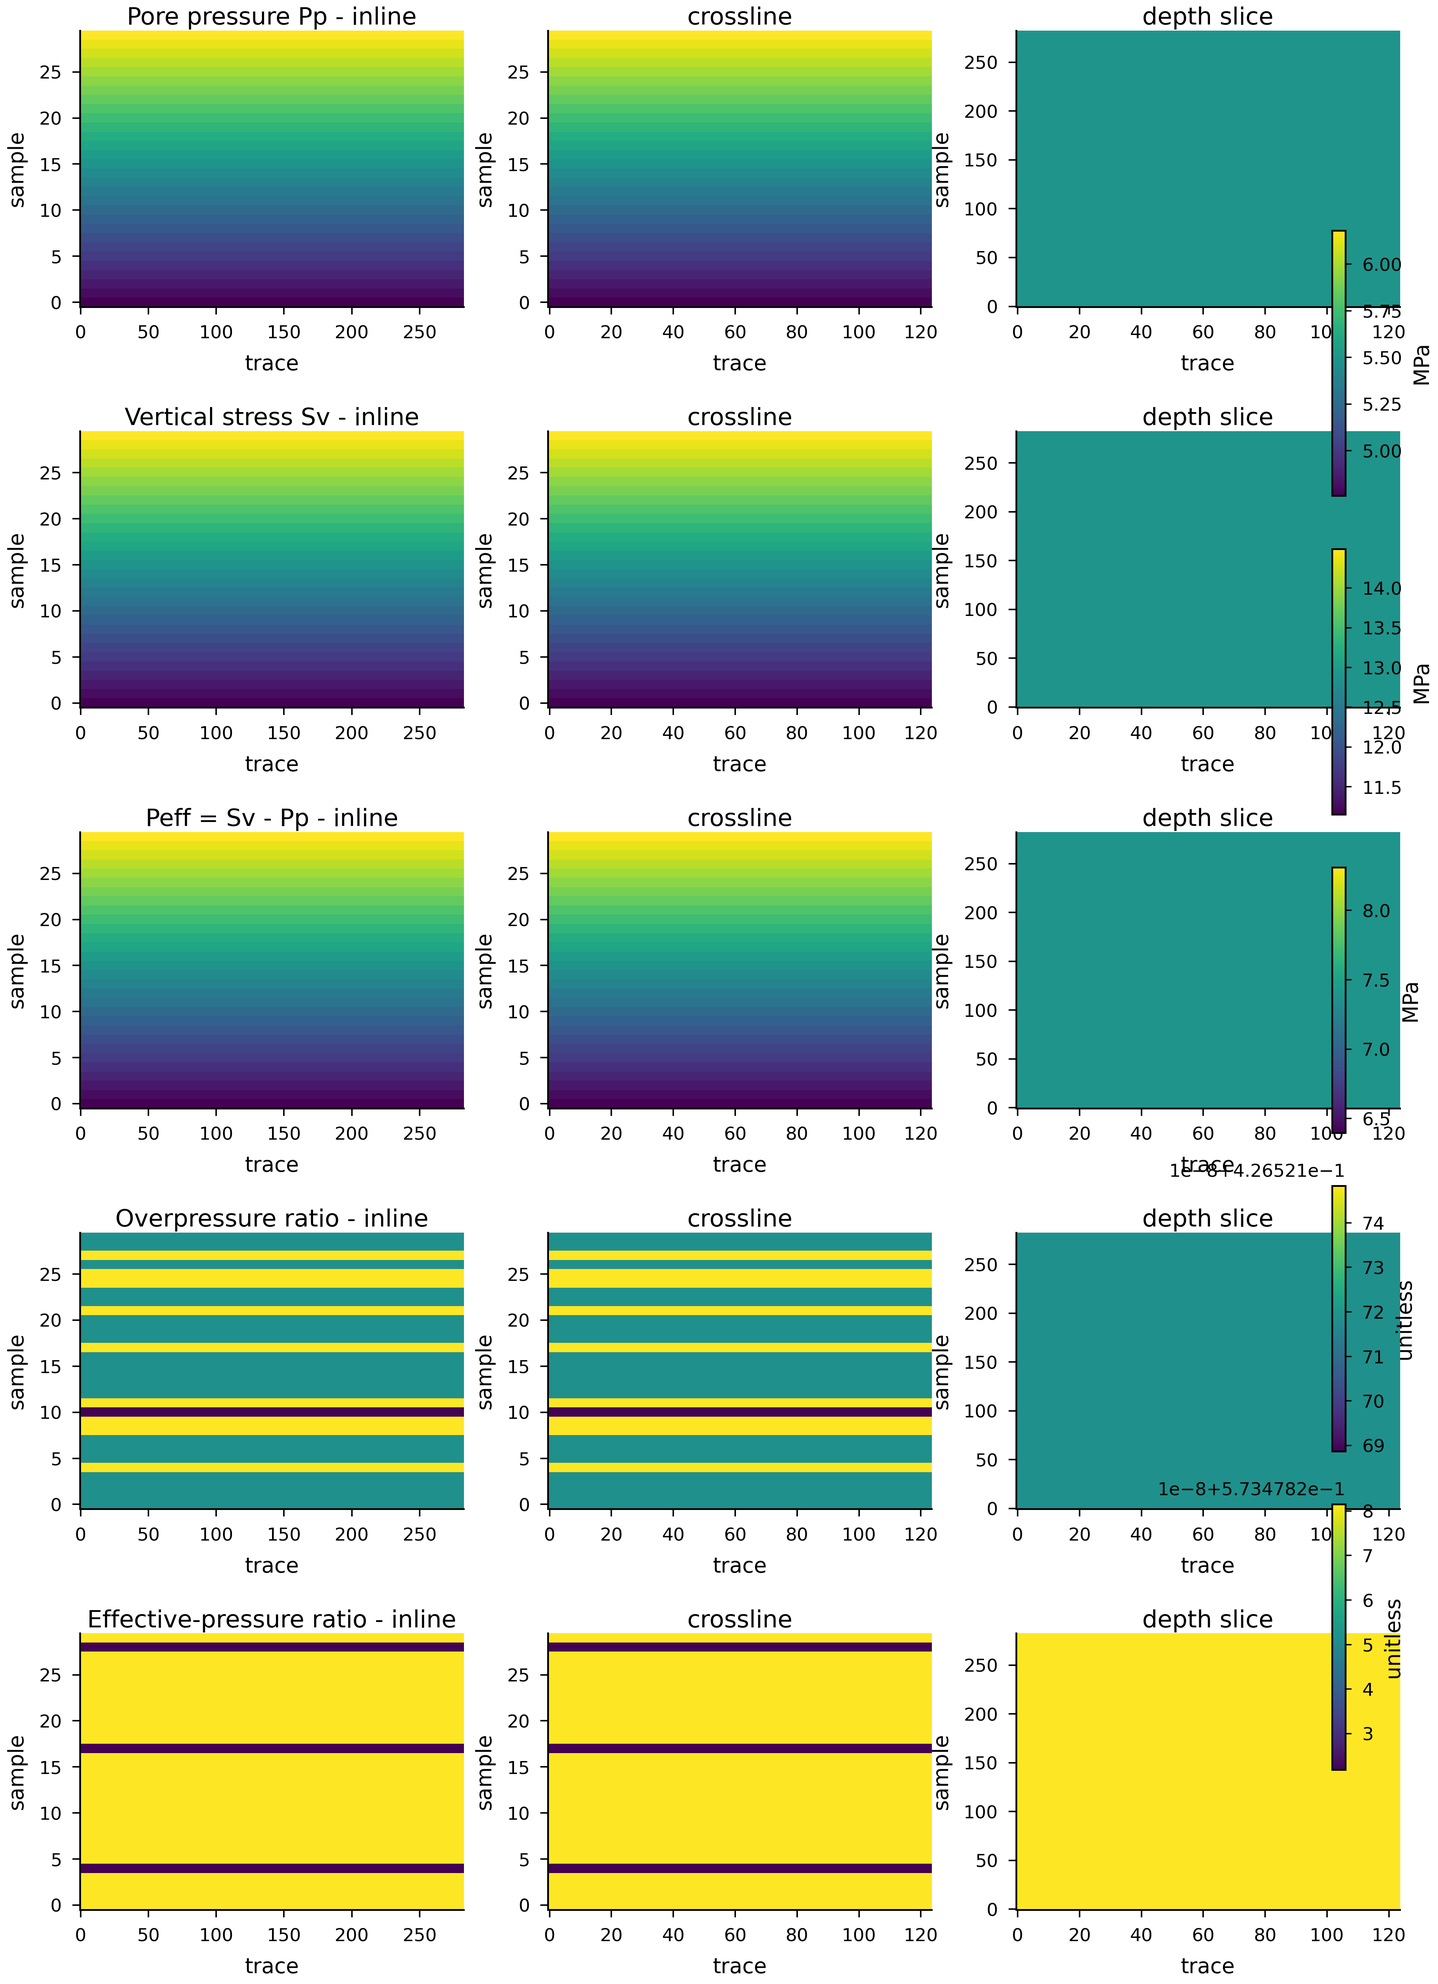
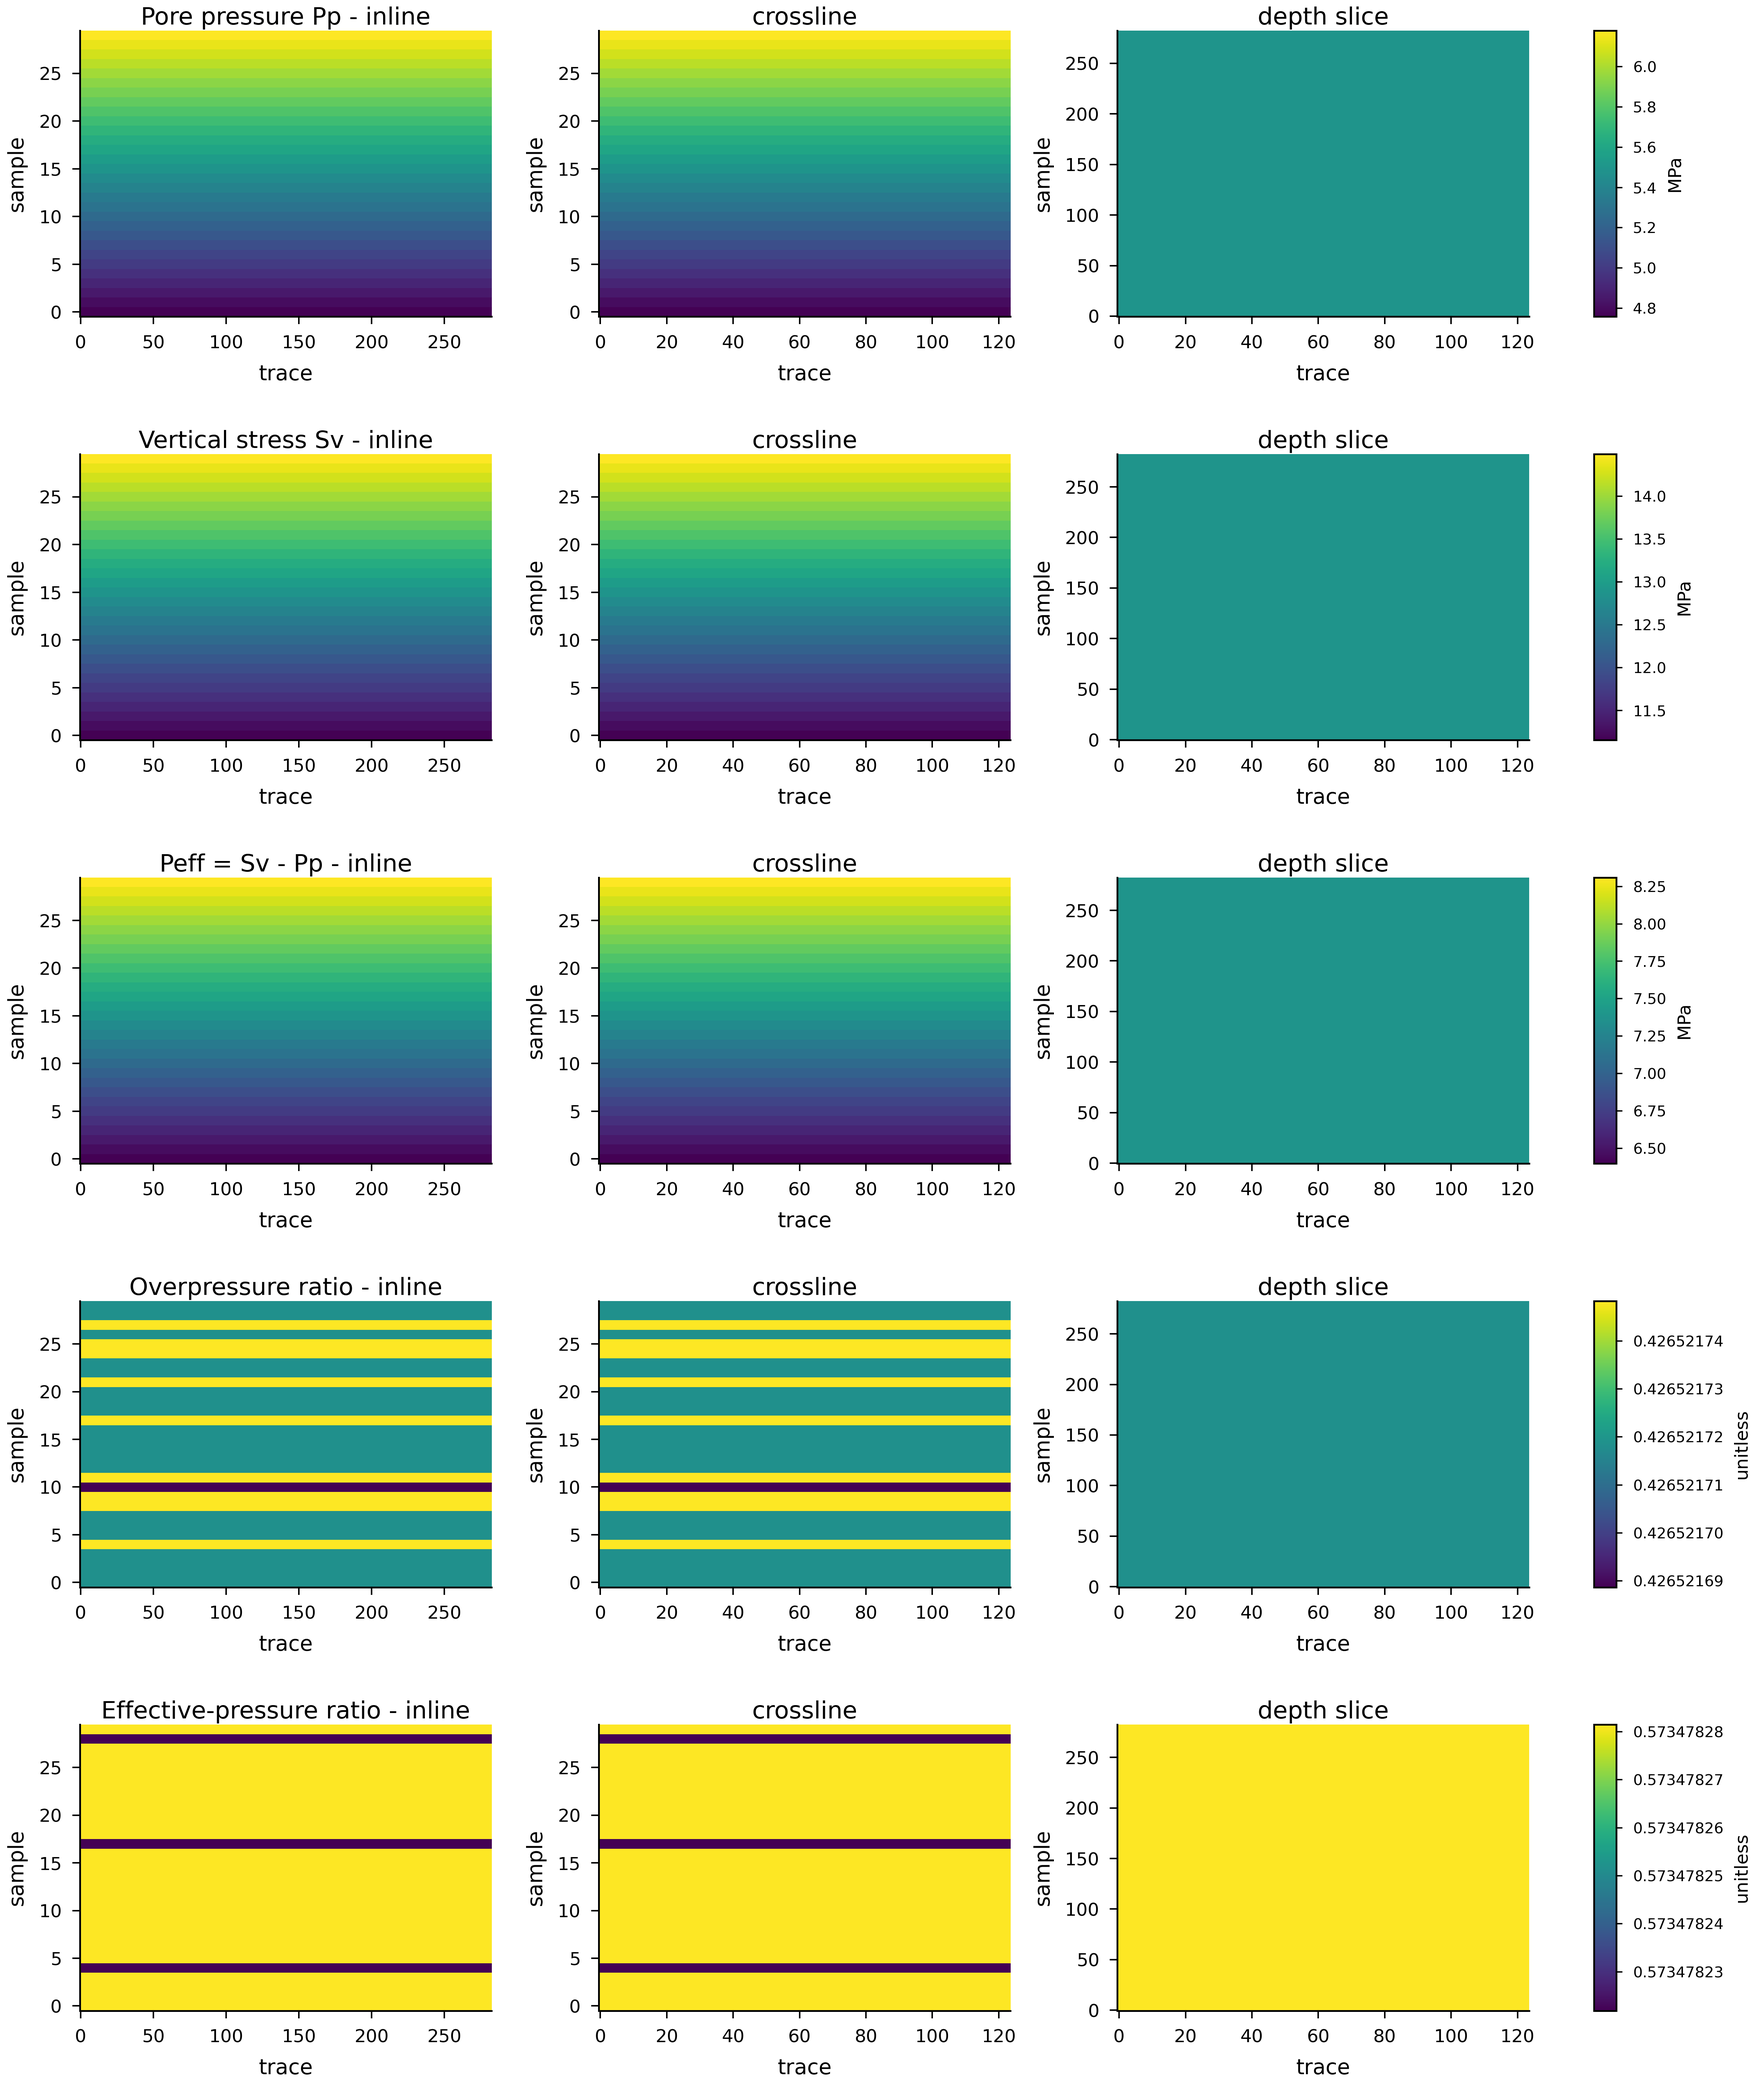
Fix orthoslice figure colorbar layout

diff --git a/research_pipelines/stress_conditioned_softdata/visualization.py b/research_pipelines/stress_conditioned_softdata/visualization.py
@@ -96,7 +96,8 @@ def save_volume_orthoslices(
     items = list(volumes.items())[:max_items]
     if not items:
         return
-    fig, axes = plt.subplots(len(items), 3, figsize=(7.1, 1.85 * len(items)), squeeze=False)
+    fig, axes = plt.subplots(len(items), 3, figsize=(8.6, 1.95 * len(items)), squeeze=False)
+    colorbar_rows = []
     for row, (name, volume) in enumerate(items):
         arr = _to_numpy(volume)
         while arr.ndim > 3:
@@ -122,9 +123,15 @@ def save_volume_orthoslices(
             title = f"{_display_name(name)} - {label}" if col == 0 or arr.ndim <= 2 else label
             _format_image_axis(ax, title)
         if last_im is not None:
-            cbar = fig.colorbar(last_im, ax=axes[row, :], fraction=0.018, pad=0.01)
-            _label_colorbar(cbar, name)
-    fig.subplots_adjust(left=0.07, right=0.93, top=0.98, bottom=0.04, wspace=0.22, hspace=0.45)
+            colorbar_rows.append((row, last_im, name))
+    fig.subplots_adjust(left=0.06, right=0.84, top=0.98, bottom=0.04, wspace=0.26, hspace=0.48)
+    for row, image, name in colorbar_rows:
+        row_boxes = [ax.get_position() for ax in axes[row, :]]
+        y0 = min(box.y0 for box in row_boxes)
+        y1 = max(box.y1 for box in row_boxes)
+        cax = fig.add_axes([0.875, y0, 0.012, y1 - y0])
+        cbar = fig.colorbar(image, cax=cax)
+        _label_colorbar(cbar, name)
     output_path = Path(output_path)
     output_path.parent.mkdir(parents=True, exist_ok=True)
     fig.savefig(output_path, dpi=dpi)
@@ -365,9 +372,13 @@ def _add_panel_letter(ax, idx: int) -> None:
 
 def _label_colorbar(cbar, name: str) -> None:
     label = _unit_label(name)
+    cbar.formatter.set_useOffset(False)
+    cbar.formatter.set_scientific(False)
+    cbar.update_ticks()
     if label:
         cbar.ax.set_ylabel(label, rotation=90, labelpad=3)
-    cbar.ax.tick_params(length=2.0, width=0.45)
+        cbar.ax.yaxis.label.set_size(6)
+    cbar.ax.tick_params(length=2.0, width=0.45, labelsize=5)
 
 
 def _display_name(name: str) -> str:

diff --git a/CHANGELOG_CODEX.md b/CHANGELOG_CODEX.md
@@ -2,6 +2,9 @@
 
 ## 2026-05-05
 
+- Fixed orthoslice publication figures where row colorbars and tick-offset numbers could overlap the third slice panel; colorbars now use dedicated right-side axes with reserved margins and non-offset tick formatting.
+- Regenerated the affected `grid_peff/figures/nature_*` plates under `research_pipelines/stress_conditioned_softdata_outputs`.
+
 - Enhanced publication visualization for the stress-conditioned soft-data pipeline with unit-aware colorbars, display-name normalization, panel lettering, and an integrated Nature-style summary plate `nature_integrated_softdata_summary.png`.
 - Materialized the real `grid.csv` run output inside the repository at `research_pipelines/stress_conditioned_softdata_outputs/grid_peff`, including exports, QC, ablation metrics, logs, geomechanics metadata, and all figures.
 
